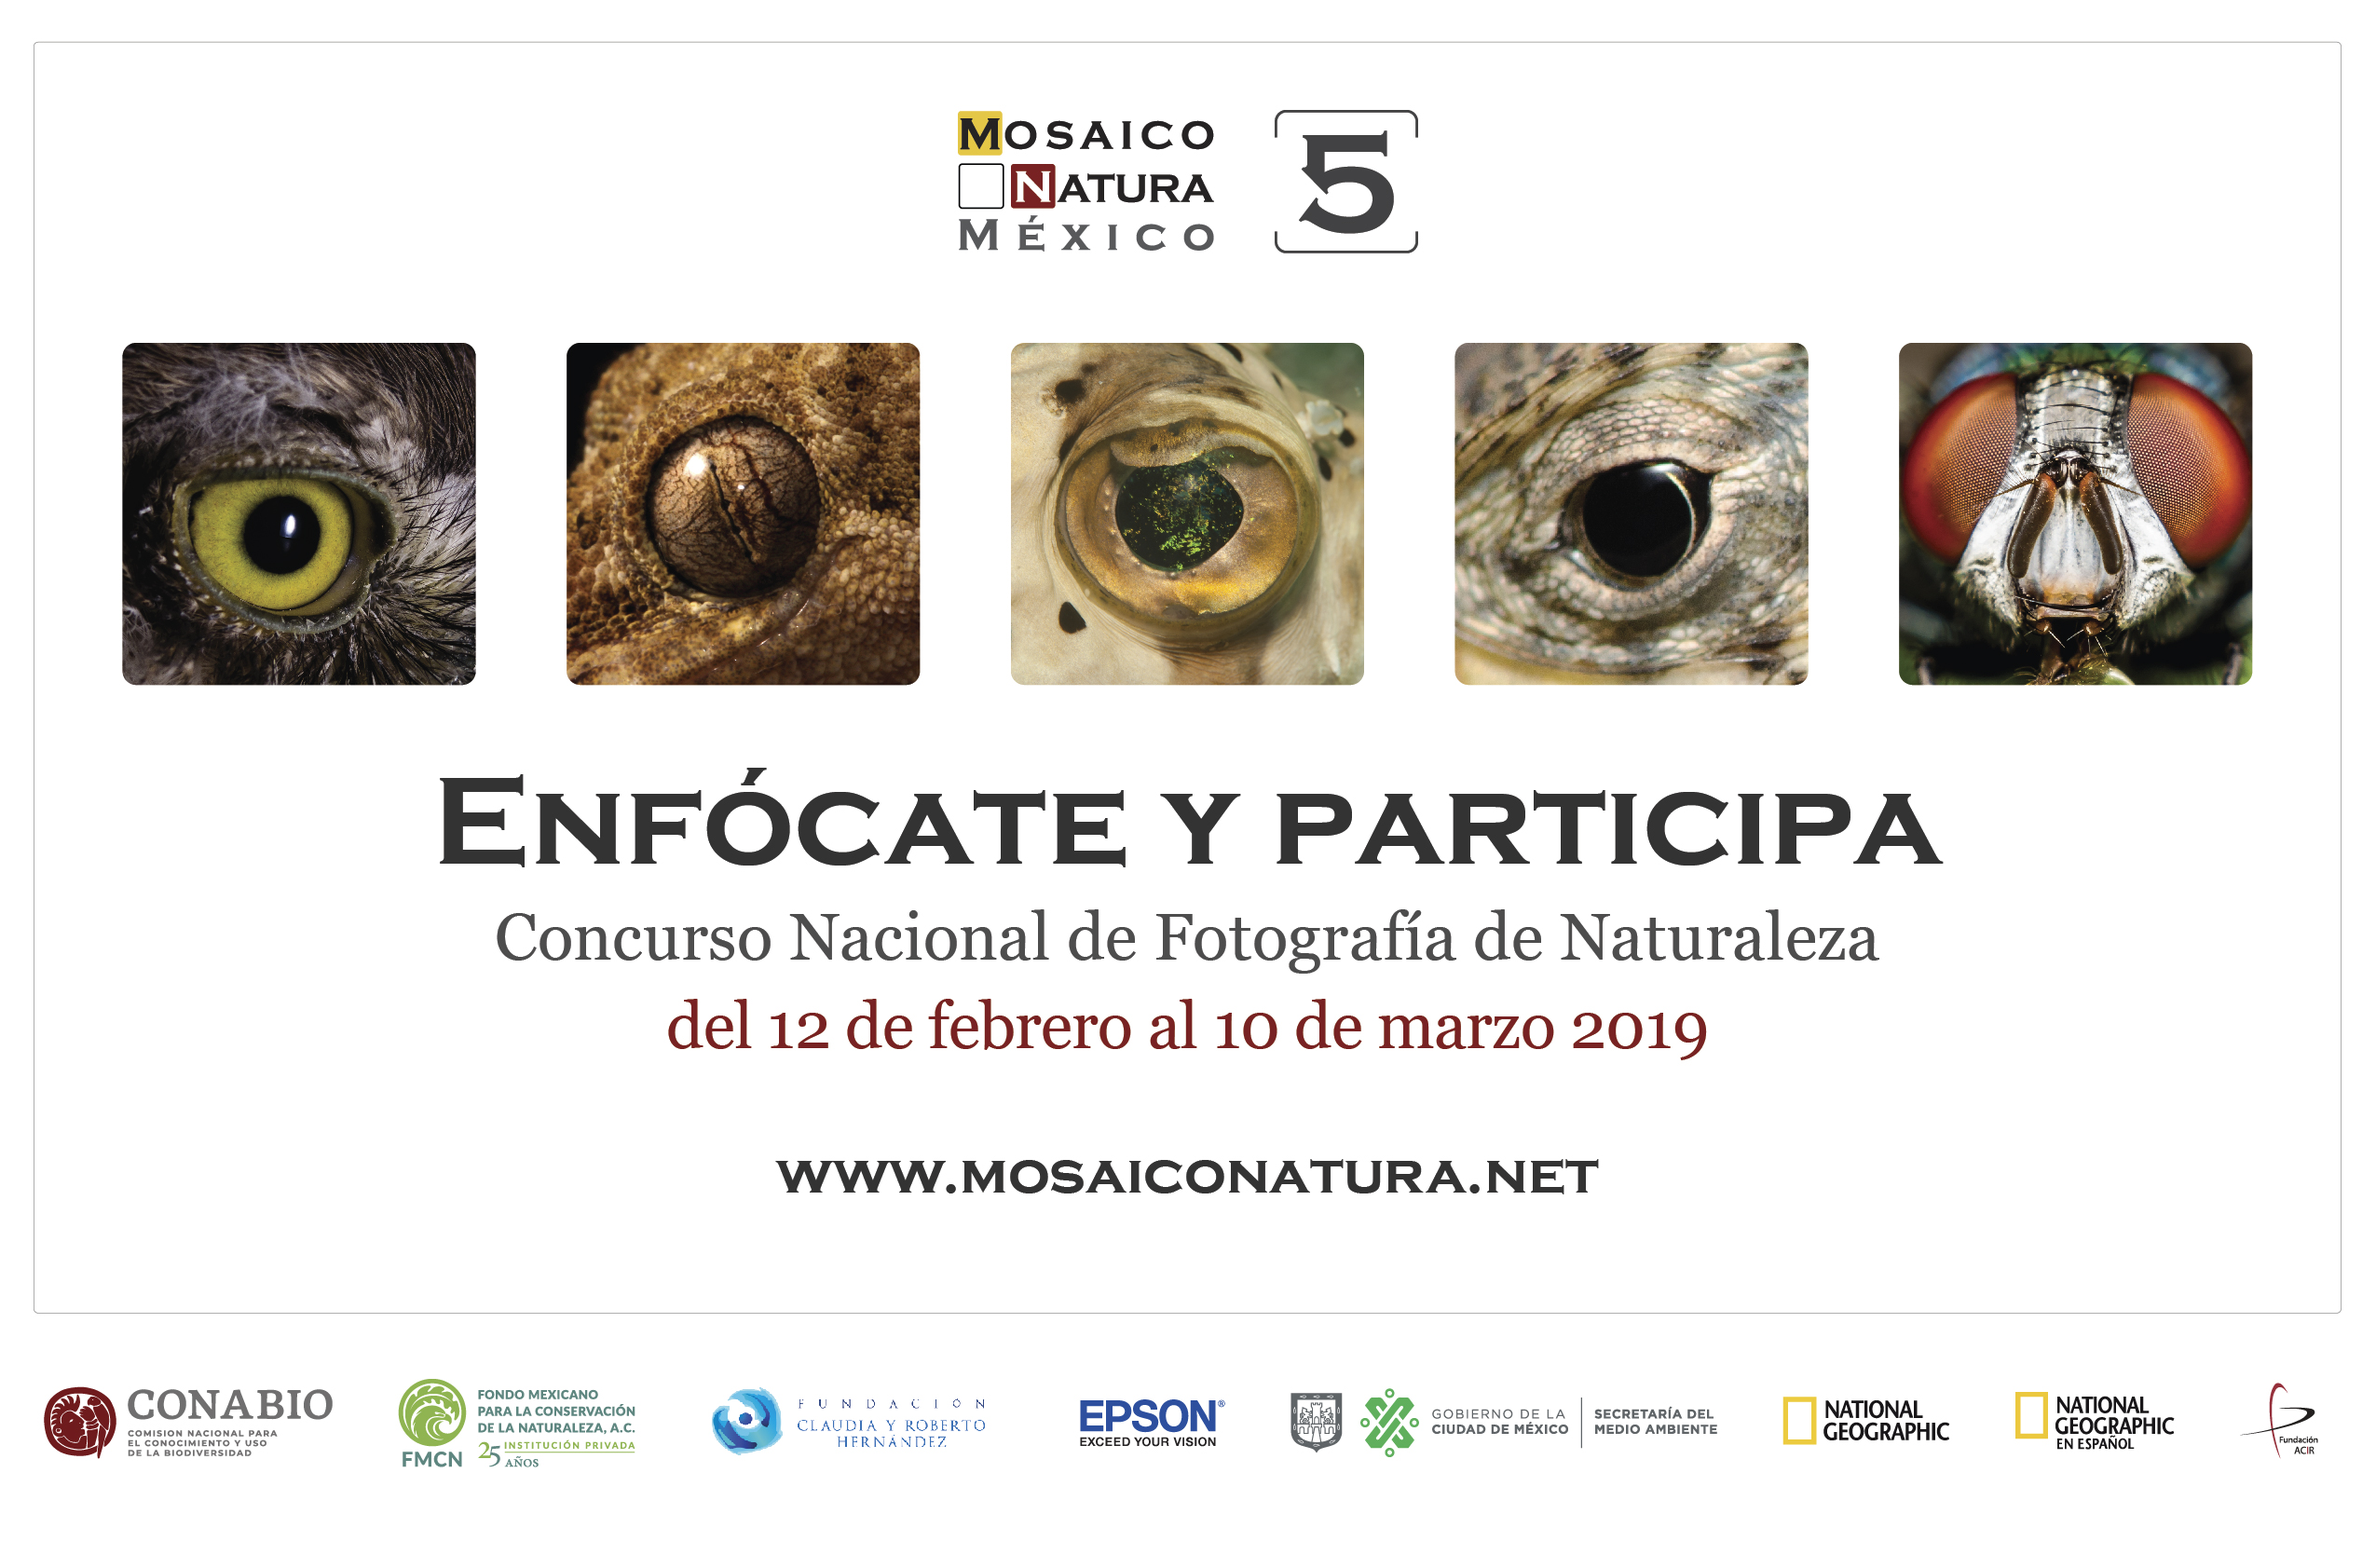
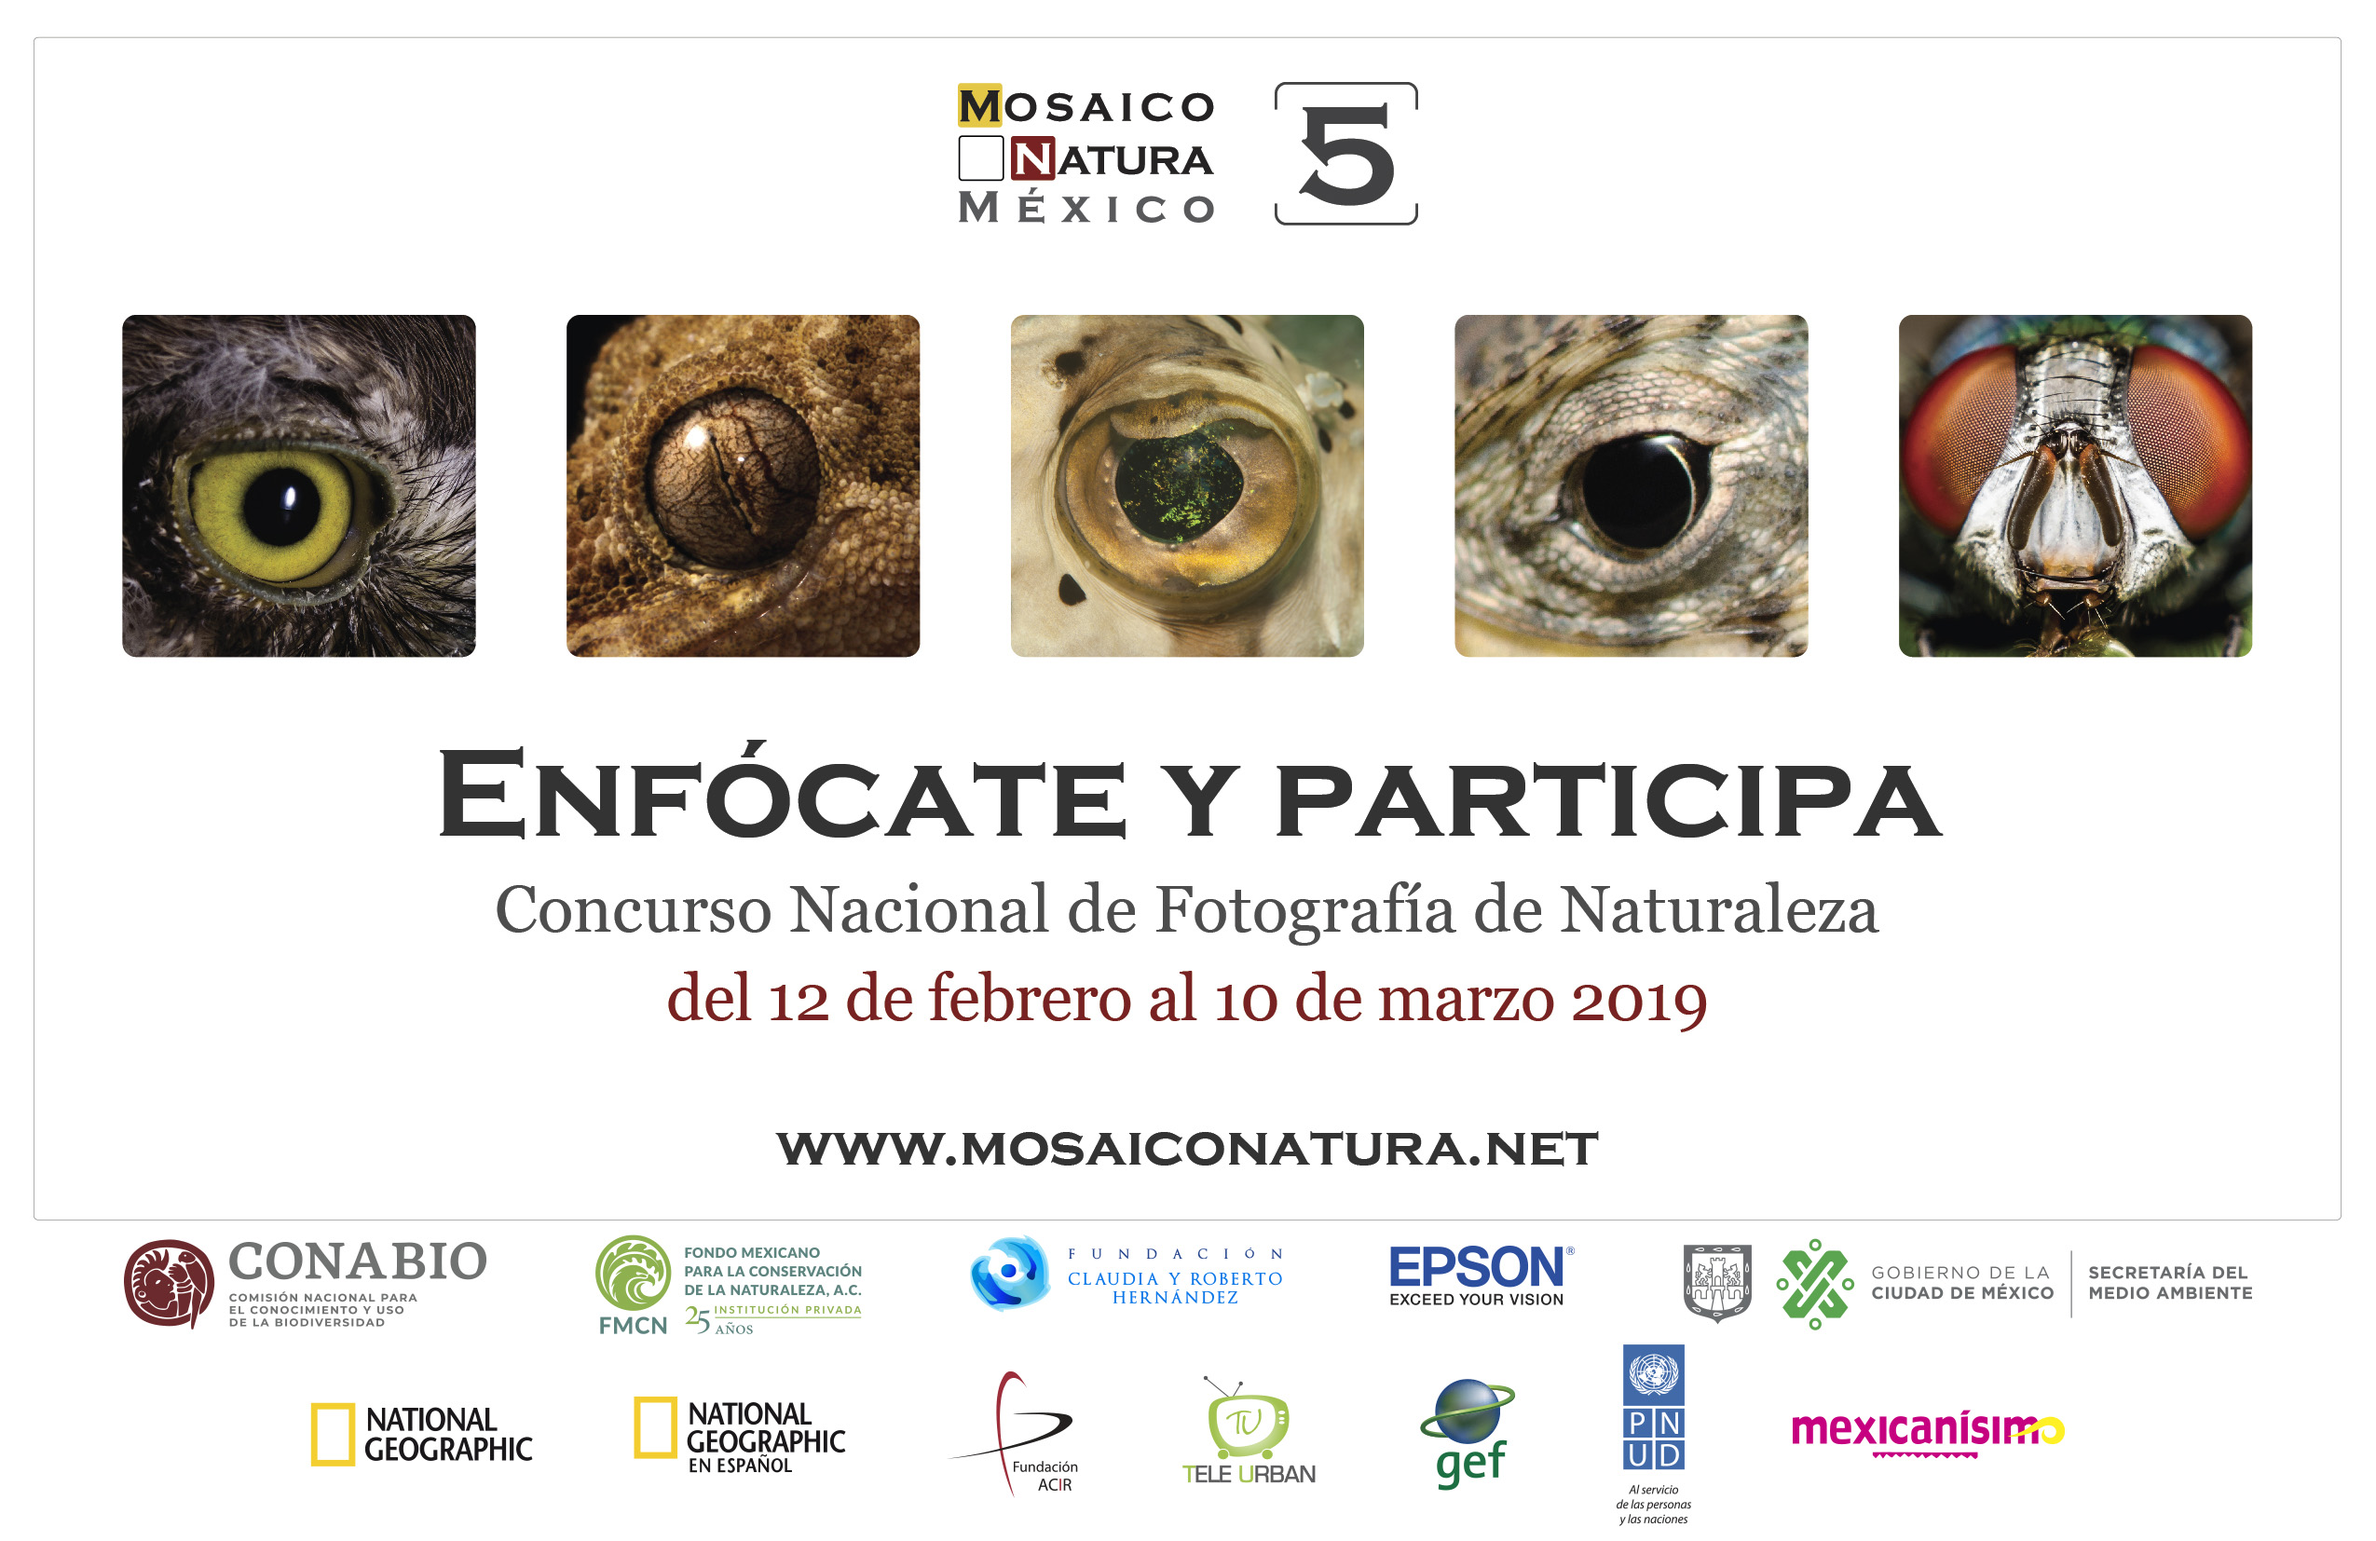
Cambio de los patrocinadores en los anuncios

diff --git a/protected/views/site/index.php b/protected/views/site/index.php
@@ -359,7 +359,7 @@
 			<i class="fa fa-4x fa-file-image-o wow bounceIn text-primary y" data-wow-delay=".1s"></i>
 			<h3>Anuncios</h3>
 			<div class="list-group">
-				<a class="list-group-item sb" href="descargar/banner944x300.jpg" target="_blank"><i class="fa fa-download fa-fw"></i> 944 x 300 px</a>
+				<a class="list-group-item sb" href="descargar/banner1900x708.jpg" target="_blank"><i class="fa fa-download fa-fw"></i> 1900 x 708 px</a>
 				<a class="list-group-item sb" href="descargar/mediacarta.jpg" target="_blank"><i class="fa fa-download fa-fw"></i> media carta</a>
 			</div>
 		</div>
